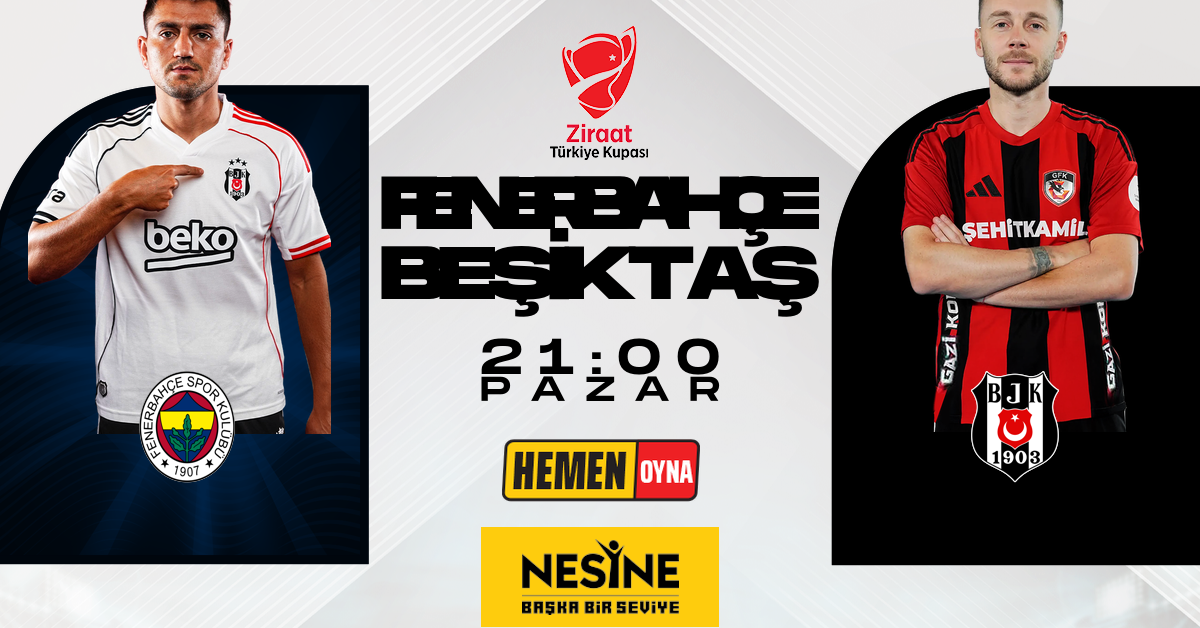
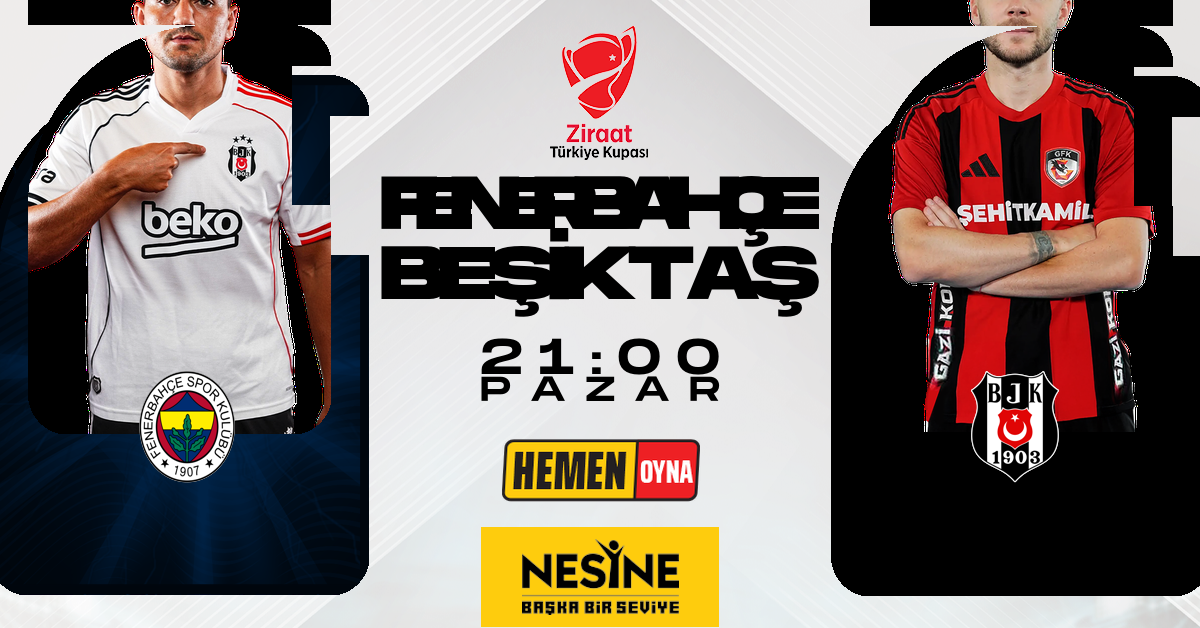
Final High-Fidelity Refinement: Surgical Glitch & Pill Masking

diff --git a/backend/core/banner_engine.py b/backend/core/banner_engine.py
@@ -1,6 +1,8 @@
 import os
 import json
-from PIL import Image, ImageDraw, ImageFont, ImageOps
+import math
+import random
+from PIL import Image, ImageDraw, ImageFont, ImageOps, ImageFilter
 from pathlib import Path
 
 class BannerEngine:
@@ -46,16 +48,63 @@ class BannerEngine:
         new_b = b.point(lambda i: int(i * cb))
         return Image.merge("RGBA", (new_r, new_g, new_b, a))
 
-    def create_player_mask(self, size, radius=180):
-        """Piller maskesi - Daha belirgin sol üst kavis (PSB spec)"""
+    def create_player_mask(self, size, radii=(180, 40, 40, 40)):
+        """Piller maskesi - Her köşe için ayrı radius desteği (TL, TR, BR, BL)"""
         mask = Image.new("L", size, 0)
         draw = ImageDraw.Draw(mask)
         w, h = size
-        r = radius 
-        draw.rectangle([0, r, w, h], fill=255)
-        draw.rectangle([r, 0, w, r], fill=255)
-        draw.pieslice([0, 0, 2*r, 2*r], 180, 270, fill=255)
+        r_tl, r_tr, r_br, r_bl = radii
+        
+        # TL
+        draw.pieslice([0, 0, 2*r_tl, 2*r_tl], 180, 270, fill=255)
+        # TR
+        draw.pieslice([w-2*r_tr, 0, w, 2*r_tr], 270, 0, fill=255)
+        # BR
+        draw.pieslice([w-2*r_br, h-2*r_br, w, h], 0, 90, fill=255)
+        # BL
+        draw.pieslice([0, h-2*r_bl, 2*r_bl, h], 90, 180, fill=255)
+        
+        # İç alanları doldur (Üst, Orta, Alt)
+        draw.rectangle([r_tl, 0, w-r_tr, max(r_tl, r_tr)], fill=255) # Üst bant
+        draw.rectangle([0, max(r_tl, r_tr), w, h-max(r_bl, r_br)], fill=255) # Orta gövde
+        draw.rectangle([r_bl, h-max(r_bl, r_br), w-r_br, h], fill=255) # Alt bant
+        
         return mask
+
+    def _generate_glitch_texture(self, size, color):
+        """Surgical radial burst streaks (Premium Glitch)"""
+        texture = Image.new("RGBA", size, (0, 0, 0, 0))
+        draw = ImageDraw.Draw(texture)
+        w, h = size
+        cx, cy = w // 2, h // 2
+        
+        import random
+        num_streaks = 60 # Daha yoğun
+        for _ in range(num_streaks):
+            angle = random.uniform(0, 360)
+            rad = math.radians(angle)
+            # Merkezden başlayan veya merkeze yakın başlayan çizgiler
+            start_dist = random.uniform(0, w * 0.2)
+            length = random.uniform(w * 0.4, w * 0.9)
+            width = random.uniform(1, 4) # Daha keskin çizgiler
+            opacity = random.randint(20, 150)
+            
+            x0 = cx + math.cos(rad) * start_dist
+            y0 = cy + math.sin(rad) * start_dist
+            
+            # Dalgalı/Glitchy bitiş
+            points = [(x0, y0)]
+            for d in range(int(start_dist) + 10, int(start_dist + length), 20):
+                # Subtle jitter
+                jitter = random.uniform(-10, 10)
+                px = cx + math.cos(rad) * d + math.cos(rad + math.pi/2) * jitter
+                py = cy + math.sin(rad) * d + math.sin(rad + math.pi/2) * jitter
+                points.append((px, py))
+            
+            if len(points) > 1:
+                draw.line(points, fill=(color[0], color[1], color[2], opacity), width=int(width))
+                
+        return texture.filter(ImageFilter.GaussianBlur(radius=1)) # Daha net/keskin
 
     def draw_text_with_spacing(self, draw, text, position, font, fill="white", spacing=0, target_width=None):
         """Metni belirli bir harf aralığı ile veya belirli bir genişliğe yayarak çizer"""
@@ -105,36 +154,46 @@ class BannerEngine:
                 team_name = data.get(f"team_{i}")
                 t_colors = self.get_team_colors(team_name)
                 
-                # Arka Plan (Glow & Outline)
+                # Arka Plan (Glow & Premium Glitch)
                 if glow_tpl and outline_tpl:
-                    b_size = (380, 480) 
+                    b_size = (380, 520) 
                     glow = self._colorize_image(glow_tpl, t_colors["p"]).resize(b_size, Image.Resampling.LANCZOS)
+                    
+                    # Premium Glitch Üretimi
+                    glitch = self._generate_glitch_texture(b_size, t_colors["p"])
+                    glow = Image.alpha_composite(glow, glitch)
+                    
                     outline = self._colorize_image(outline_tpl, t_colors["p"]).resize(b_size, Image.Resampling.LANCZOS)
                     
-                    # Yerleşim: Oyuncunun (280x480) arkasında ortalanmış
-                    # Glow ve Outline'ı biraz aşağı çekerek kafa taşma payı bırakıyoruz
-                    b_pos = (p_pos[0] + (p_size[0] - b_size[0]) // 2, p_pos[1] + 60)
-                    canvas.alpha_composite(glow, b_pos)
-                    canvas.alpha_composite(outline, b_pos)
+                    # Pill maskesi (PSD uyumlu: TL=180, Others=40)
+                    b_mask = self.create_player_mask(b_size, radii=(180, 40, 40, 40))
+                    
+                    # Arka plan yerleşimi (Oyuncunun arkasında)
+                    b_pos = (p_pos[0] + (p_size[0] - b_size[0]) // 2, p_pos[1] + 50)
+                    
+                    # Maskelenmiş arka plan oluştur
+                    b_canvas = Image.new("RGBA", b_size, (0, 0, 0, 0))
+                    b_canvas.alpha_composite(glow)
+                    b_canvas.alpha_composite(outline)
+                    b_canvas.putalpha(b_mask)
+                    
+                    canvas.alpha_composite(b_canvas, b_pos)
 
                 # Oyuncu Maskeleme ve Pop-out (Kafa dışarıda)
                 if p_img_path and os.path.exists(p_img_path):
                     p_img_source = Image.open(p_img_path).convert("RGBA")
-                    pop_out = 70
+                    pop_out = 110 # Daha iddialı pop-out
                     p_full_size = (p_size[0], p_size[1] + pop_out)
                     p_img = ImageOps.fit(p_img_source, p_full_size, method=Image.Resampling.LANCZOS, centering=(0.5, 0.0))
                     
-                    # Maske: Sadece alt kavisli kutuyu kes, üst (kafa) kısmını tam göster
+                    # Maske: Pill şekline uygun kesim
                     p_mask = Image.new("L", p_full_size, 0)
-                    inner_mask = self.create_player_mask(p_size, radius=130)
+                    inner_mask = self.create_player_mask(p_size, radii=(180, 40, 40, 40))
                     p_mask.paste(inner_mask, (0, pop_out))
+                    p_mask.paste(255, [0, 0, p_size[0], pop_out]) # Kafa kısmını serbest bırak
                     
-                    draw_m = ImageDraw.Draw(p_mask)
-                    draw_m.rectangle([0, 0, p_full_size[0], pop_out], fill=255)
-                    
-                    p_final = Image.new("RGBA", p_full_size, (0,0,0,0))
-                    p_final.paste(p_img, (0, 0), p_mask)
-                    canvas.alpha_composite(p_final, (p_pos[0], p_pos[1] - pop_out))
+                    p_img.putalpha(p_mask) # Maskeyi uygula
+                    canvas.alpha_composite(p_img, (p_pos[0], p_pos[1] - pop_out))
 
         # Logo ve diğer öğeler
         for i in [1, 2]:
